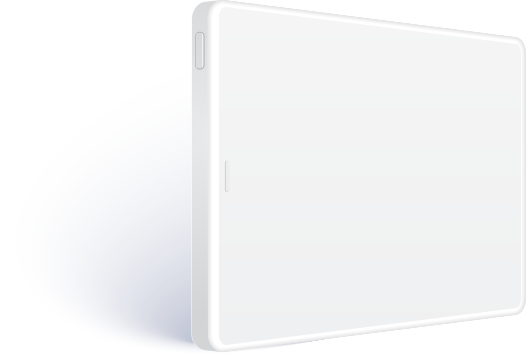
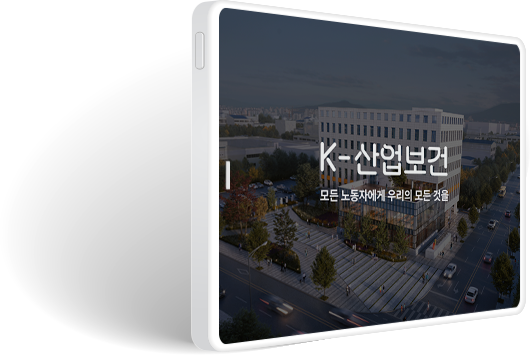
수정_2024021501

diff --git a/html/ui0301.html b/html/ui0301.html
@@ -134,15 +134,22 @@
                             산업안전보건 종합서비스기관으로 자리매김 할 것입니다
                         </p>
                         <p class="text">
-                            대한산업보건협회는 1947년 조선산업보건협회로 창립해 77년 역사를 가진 산업안전보건 분야 종합서비스기관입니다. 급성장한 경제발전 속에서 국가의 산업안전보건을 책임져왔으며, 협회의 역사는 곧, 대한민국 산업보건의 역사가 되었습니다. <br><br>
+                            산업보건서비스는 일하는 사람 모두가 누려야할 보편적 권리입니다. <br>
+                            대한산업보건협회는 일하는 사람 모두가 건강하고 행복한 세상을 꿈꿉니다.<br><br>
                             
-                            협회는 산업보건의 허브(Hub)로서 선도적인 서비스를 제공해 전문성을 인정받았으며, 건강진단, 쾌적한 작업환경 조성, 노동자의 건강을 관리하는 보건관리위탁업무 등을 수행하고 있습니다.<br>
-                            또한 노동자의 건강과 밀접한 사업장 환경관리 업무와 노동자의 특성에 맞게 개선하는 인간공학컨설팅 업무에 이르기까지 사업영역을 지속적으로 확대하고 있습니다. <br>
-                            뿐만 아니라 K-산업보건을 브랜딩하여 대한민국 산업보건관리서비스를 상징하는 통합서비스를 추진하고 있습니다. <br><br>
+                            우리나라 최대 산업안전보건 종합서비스기관인 대한산업보건협회는 1947년 조선산업보건협회의 설립과 함께 그 역사가 시작되었습니다. <br>
+                            77년의 역사에는 해방 이후 우리나라 산업보건의 제도화 과정이 고스란히 담겨 있습니다. 작업환경측정, 보건관리, 건강진단, 직무교육 등 노동자 건강보호를 위해 필요한 제도를 만들고 고치면서 현재 우리나라 산업보건이 자리잡도록 했습니다. <br>
+                            그렇게 대한산업보건협회가 걸어온 길은 대한민국 산업보건의 역사가 되었습니다.<br><br>
                             
-                            최근에는 ESG 안전보건경영방침을 선언하고, 모든 경영활동에 있어 고객과 직원의 안전보건을 최우선 경영목표로 삼고 있습니다. 이를 통해 모범적인 안전보건경영을 추구하고 ESG경영을 실천하여 사회적 가치 제고에 기여하고자 노력하고 있습니다. ‘우리가 가는 길이 우리나라 산업보건의 기준’이라는 자긍심으로 지속적인 도전과 혁신을 통해 협회의 밝은 미래를 만들어 갈 것입니다.<br><br>
-                                
-                            77년 역사 속에서 헌신과 노력을 다하여 주신 전·현직 임직원 분들과 협회와 함께해 주신 모든 기관 및 단체, 고객분들께 진심으로 감사드립니다.
+                            그리고 대한산업보건협회가 앞으로 걸어갈 길은 대한민국 산업보건의 새로운 역사가 될 것입니다. <br>
+                            대한산업보건협회는 지나온 역사를 기반으로 산업보건의 미래를 준비하고 있습니다.  산업보건 스마트화, 과학적이고 체계적인 직무교육, 보건안전 인력양성 등을 통해 산업보건의 패러다임 전환을 준비하고 있습니다. 특히 K-산업보건을 브랜딩하여 통합적인 산업보건서비스를 제공하고자 합니다. <br><br>
+                            
+                            최근에는 ESG경영과 안전보건경영을 선언하고 모든 경영활동에 있어서 고객과 직원의 안전보건을 최우선 목표로 삼고 있습니다. 모범적인 안전보건경영과 ESG경영을 실천하여 사회적 가치 제고에 기여하고자 노력하고 있습니다. <br><br>
+                            
+                            '우리가 가는 길이 우리나라 산업보건의 기준'이라는 자긍심으로 지속적인 도전과 혁신을 통해 대한산업보건협회와 대한민국의 밝은 미래를 만들어 갈 것입니다. <br><br>
+                            
+                            대한산업보건협회의 오늘이 있기까지 열정과 헌신을 다하여 준 임직원에게 고마운 마음을 전합니다. 아울러 대한산업보건협회의 77년 역사와 함께해 주신 모든 분들께도 진심으로 감사드립니다.
+
                         </p>
                         <div class="president">
                             <p class="position">대한산업보건협회 회장</p>

diff --git a/css/main.css b/css/main.css
@@ -11,21 +11,22 @@
 
 /* 섹션 */
 .main .visual {position: relative; height: 100vh;}
-.main .visual .visual-text {position: absolute; height: 100%; background-color: rgba(0, 0, 0, 0.5); display: flex; align-items: center; justify-content: center; z-index: 2; width: 100%; flex-direction: column; color: #ffffff;}
+.main .visual .visual-text {position: absolute; height: 100%; display: flex; align-items: center; justify-content: center; z-index: 2; width: 100%; flex-direction: column; color: #ffffff;}
 .main .visual .visual-text .title {font-family: 'Seolleim'; font-size: 8rem; text-align: center; line-height: 1.325;}
 .main .visual .visual-text .text {text-align: center; font-size: 2.7rem; font-weight: 800;}
 .main .visual .visual-text .copyright {position: absolute; bottom: 3rem; font-size: 1.4rem; text-align: center; left: 50%; transform: translateX(-50%); font-weight: 200; width: 100%;}
 .main .visual .visual-background {width: 100%; height: 100vh;}
-.main .visual .visual-background video {width: 100%; height: 100vh; display: block; object-fit: cover;}
-.main .visual .visual-background video.mobile {display: none;}
+.main .visual .visual-background * {width: 100%; height: 100vh; display: block; object-fit: cover;}
+.main .visual .visual-background *.mobile {display: none;}
 .main .visual .visual-background .visual-swiper .swiper-wrapper .swiper-slide {position: relative;}
 .main .visual .visual-background .visual-swiper .swiper-wrapper .swiper-slide img {position: absolute; left: 50%; top: 50%; transform: translate(-50%, -50%); width: 100%; height: 100%; object-fit: cover;}
 
 .main .section01{}
 
 @media screen and (max-width: 1170px) {
-    .main .visual .visual-background video.pc {display: none;}
-    .main .visual .visual-background video.mobile {display: block;}
+    .main .visual .visual-text {background-color: rgba(0, 0, 0, 0.5);}
+    .main .visual .visual-background *.pc {display: none;}
+    .main .visual .visual-background *.mobile {display: block;}
     .main .visual .visual-background .visual-swiper {width: 100%; height: calc(100vh - 7.5rem);}
 }
 @media screen and (max-width: 750px) {

diff --git a/css/sub.css b/css/sub.css
@@ -113,7 +113,7 @@ body:has(.history) #footer {position: relative; z-index: 1; background-color: #f
 .history .history-detail:nth-of-type(10) .cont .inner ul li:nth-of-type(2) dl dd .img-area::before {width: 21.5rem; left: 4rem}
 .history .history-detail:nth-of-type(12) .cont {padding-bottom: 18.2rem;}
 .history .history-detail:nth-of-type(14) .cont {padding-bottom: 11rem;}
-.history .history-detail:nth-of-type(16) .cont {padding-bottom: 36rem;}
+.history .history-detail:nth-of-type(16) .cont {padding-bottom: 54rem;}
 
 /* 어제와 오늘 */
 .change {padding-top: 11.5rem; padding-bottom: 6rem;}
@@ -385,7 +385,7 @@ body:has(.history) #footer {position: relative; z-index: 1; background-color: #f
     .history .history-detail:nth-of-type(10) .cont,
     .history .history-detail:nth-of-type(12) .cont,
     .history .history-detail:nth-of-type(14) .cont {padding-bottom: 7rem;}
-    .history .history-detail:nth-of-type(16) .cont {padding-bottom: 32rem;}
+    /* .history .history-detail:nth-of-type(16) .cont {padding-bottom: 32rem;} */
     
     /* .history .history-detail.on .visual .inner {width: 50%;} */
 }
@@ -446,7 +446,7 @@ body:has(.history) #footer {position: relative; z-index: 1; background-color: #f
 
     .history .history-detail.on .visual .inner {position: static; width: 100%; height: auto;}
     
-    .history .history-detail:nth-of-type(16) .cont {padding-bottom: 35rem;}
+    /* .history .history-detail:nth-of-type(16) .cont {padding-bottom: 35rem;} */
 
     /* 어제와 오늘 */
     .change {padding-top: 9rem; padding-bottom: 6rem;}
@@ -552,7 +552,7 @@ body:has(.history) #footer {position: relative; z-index: 1; background-color: #f
     
     #header.scroll + .sub .timeline {top: 12rem;}
     
-    .history .history-detail:nth-of-type(16) .cont {padding-bottom: 48vh;}
+    /* .history .history-detail:nth-of-type(16) .cont {padding-bottom: 48vh;} */
 
     /* 어제와 오늘 */
     .change {padding-top: 13.5rem; padding-bottom: 6rem;}

diff --git a/html/ui0206.html b/html/ui0206.html
@@ -232,15 +232,15 @@
                                 </div>
                                 <div class="swiper-slide">
                                     <div class="img-wrap">
-                                        <img src="../img/sub/img_magazine19.png" alt="">
-                                    </div>
-                                    <p class="text">2020. 01.</p>
-                                </div>
-                                <div class="swiper-slide">
-                                    <div class="img-wrap">
                                         <img src="../img/sub/img_magazine20.png" alt="">
                                     </div>
                                     <p class="text">2021. 08. 400호 특집</p>
+                                </div>
+                                <div class="swiper-slide">
+                                    <div class="img-wrap">
+                                        <img src="../img/sub/img_magazine19.png" alt="">
+                                    </div>
+                                    <p class="text">2023.01.</p>
                                 </div>
                                 <div class="swiper-slide">
                                     <div class="img-wrap">

diff --git a/html/index.html b/html/index.html
@@ -109,11 +109,12 @@
         <div class="visual">
             <div class="visual-text">
                 <p class="title">K-산업보건</p>
-                <p class="text">국민 건강을 위해 걸어온 100년 길, 100년의 미래</p>
+                <p class="text">모든 노동자에게 우리의 모든 것을</p>
                 <p class="copyright">COPYRIGHT©2023 KIHA. ALL RIGHTS RESERVED 대한산업보건협회</p>
             </div>
             <div class="visual-background">
-                <video src="../img/main/main_bg_pc.mp4" muted autoplay playsinline loop class="pc"></video>
+                <img src="../img/main/bg_main.png" alt="" class="pc">
+                <!-- <video src="../img/main/main_bg_pc.mp4" muted autoplay playsinline loop class="pc"></video> -->
                 <video src="../img/main/main_bg_mobile.mp4" muted autoplay playsinline loop class="mobile"></video>
             </div>
         </div>

diff --git a/html/ui0203.html b/html/ui0203.html
@@ -156,7 +156,7 @@
                                     <p class="year"><span>2019</span></p>
                                     <p class="text">
                                         제29회 한&middot;중&middot;일 산업보건학술대회(중국 난징) <br>
-                                        (2019년 제29회부터 산업보건학술대회로 명칭을 변경하였다)
+                                        <span>(2019년 제29회부터 산업보건학술대회로 명칭을 변경하였다)</span>
                                     </p>
                                 </div>
                             </div>

diff --git a/html/ui0201.html b/html/ui0201.html
@@ -189,7 +189,7 @@
                                     <p class="year"><span>2024</span></p>
                                     <p class="text">
                                         오송본사 사옥 <br>
-                                        (충청북도 청주시 흥덕구 오송읍 오송생명10로 7)
+                                        <span>(충청북도 청주시 흥덕구 오송읍 오송생명10로 7)</span>
                                     </p>
                                 </div>
                             </div>
